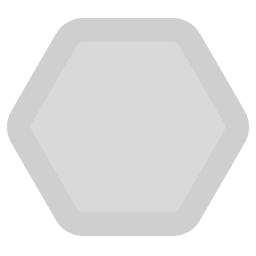
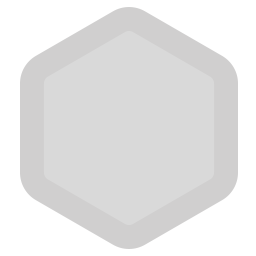
ended tile design

diff --git a/lib/features/home/page_widgets/tile.dart b/lib/features/home/page_widgets/tile.dart
@@ -13,59 +13,115 @@ class TileBuilder extends StatelessWidget {
 
   @override
   Widget build(BuildContext context) {
-    return Stack(
-      alignment: Alignment.center,
+    return Column(
       children: [
-        const SizedBox(height: 110, width: 110),
+        Stack(
+          alignment: Alignment.center,
+        
+          children: [
+            SizedBox(height: 110, width: 110, 
+            child: Image.asset("images/hexagon.png")),
+              
+             
+        
+            Container(
+                alignment: const Alignment(0.9, 0),
+                height: 100,
+                width: 340,
+                decoration: BoxDecoration(
+                  gradient: TileGrad(),
+                  boxShadow: [BoxShadow(
+                    color: Colors.black26,
+                    blurRadius: 4,
+                    offset: Offset(0, 3)
+                  )],
+                  borderRadius: const BorderRadius.all(Radius.circular(20)),
+                ),
+                child: Row(
+                  crossAxisAlignment: CrossAxisAlignment.start,
+                  
+                  children: [
+                    const SizedBox(width: 12),
+                    SizedBox(width: 275, child:
+                    Column(
+                      crossAxisAlignment: CrossAxisAlignment.start,
+                      children: [
+                      SizedBox(height: 12,),
+                      Container(
+                        height: 32,
+                        width: 130,
+                        padding: EdgeInsets.only(left: 5, right: 5),
+                        alignment: Alignment.center,
+                        decoration: BoxDecoration(color: Color(CustomColors.main), borderRadius: BorderRadius.circular(10)),
+                        child: SingleChildScrollView(
+              //for horizontal scrolling
+                          scrollDirection: Axis.horizontal,
+                          child: Text(
+                            tile.name,
+                            style: const TextStyle(
+                              color: Colors.white,
+                              fontWeight: FontWeight.bold,
+                              fontSize: 20.0,
+                            ),
+                          ),
+                        )
+        
+                      ),
+        
+                      SizedBox(height: 15,),
+                      Row(
+                        mainAxisAlignment: MainAxisAlignment.start,
+                        crossAxisAlignment: CrossAxisAlignment.center,
+                        
+                        children: [
+                          Container(height: 25, width: 25, decoration: BoxDecoration(
+                            color: Colors.white,
+                            borderRadius: BorderRadius.circular(15)
+                          ),
+                          child:
+                            tile.result == 1 ? 
+                              Icon(Icons.remove, color: Color(CustomColors.bright), size: 20,) :
+                              Icon(Icons.done, color: Color(CustomColors.bright), size: 20)),
+                          const SizedBox(width: 12,),
+                          Text(
+                            tile.result == 1 ? "Обнаружен дефект речи" : "Дефектов нет"
+                            ,
+                            style: const TextStyle(
+                              color: Colors.white,
+                              fontWeight: FontWeight.bold,
+                              fontSize: 18.0,
+                            ),
+                          ),
+                        ],)
+                    ],
+                    ),),
+                    
+                    
+                    GestureDetector(
+                         onTap: () async {
+                           await DataHandler().deleteTile(tile.name);
+        
+                           func();
+                         },
+                         child: Column(
+                           children: [
+                            SizedBox(height: 12,),
+                             Container(height: 32,
+                                                     width: 40,
+                                                     padding: EdgeInsets.only(left: 5, right: 5),
+                                                     alignment: Alignment.center,
+                                                     child: Icon(Icons.more_horiz, color: Colors.white, size: 30,),
+                                                     decoration: BoxDecoration(color: Color(CustomColors.main), borderRadius: BorderRadius.circular(10)),),
+                           ],
+                         )),
+                        
+                  ],
+                )),
           
          
-
-        Container(
-            alignment: const Alignment(0.9, 0),
-            height: 90,
-            width: 340,
-            decoration: BoxDecoration(
-              gradient: TileGrad(),
-              borderRadius: const BorderRadius.all(Radius.circular(20)),
-            ),
-            child: Row(
-              children: [
-                const SizedBox(width: 12),
-                Column(children: [
-                  SizedBox(height: 12,),
-                  Flexible(child: Container(
-                    height: 32,
-                    width: 130,
-                    padding: EdgeInsets.only(left: 5, right: 5),
-                    alignment: Alignment.center,
-                    decoration: BoxDecoration(color: Color(CustomColors.main), borderRadius: BorderRadius.circular(10)),
-                    child: SingleChildScrollView(
-          //for horizontal scrolling
-                      scrollDirection: Axis.horizontal,
-                      child: Text(
-                        tile.name,
-                        style: const TextStyle(
-                          color: Colors.white,
-                          fontWeight: FontWeight.bold,
-                          fontSize: 20.0,
-                        ),
-                      ),
-                    )
-
-                  ))
-                  
-                ],),
-                IconButton(
-                    onPressed: () async {
-                      await DataHandler().deleteTile(tile.name);
-
-                      func();
-                    },
-                    icon: const Icon(Icons.delete))
-              ],
-            )),
-      
- 
+          ],
+        ),
+        SizedBox(height: 10,)
       ],
     );
   }

diff --git a/lib/features/home/page.dart b/lib/features/home/page.dart
@@ -64,6 +64,7 @@ class _HomePageState extends State<HomePage> {
       body: ListView.builder(
           padding: const EdgeInsets.only(top: 20, bottom: 20),
           itemCount: tilesList.length,
+          
           itemBuilder: (context, index) {
             final tile = tilesList[index];
             return TileBuilder(
@@ -80,11 +81,8 @@ class _HomePageState extends State<HomePage> {
               builder: (BuildContext context) => AddDialog(func: tileUpdate));
         },
         child: const Center(
-            child: Text(
-          "+",
-          textScaler: TextScaler.linear(2.4),
-          style: TextStyle(color: Colors.white, fontWeight: FontWeight.w800),
-        )),
+            child: Icon(Icons.upload, color: Colors.white, size: 30,
+          )),
       ),
     );
   }
